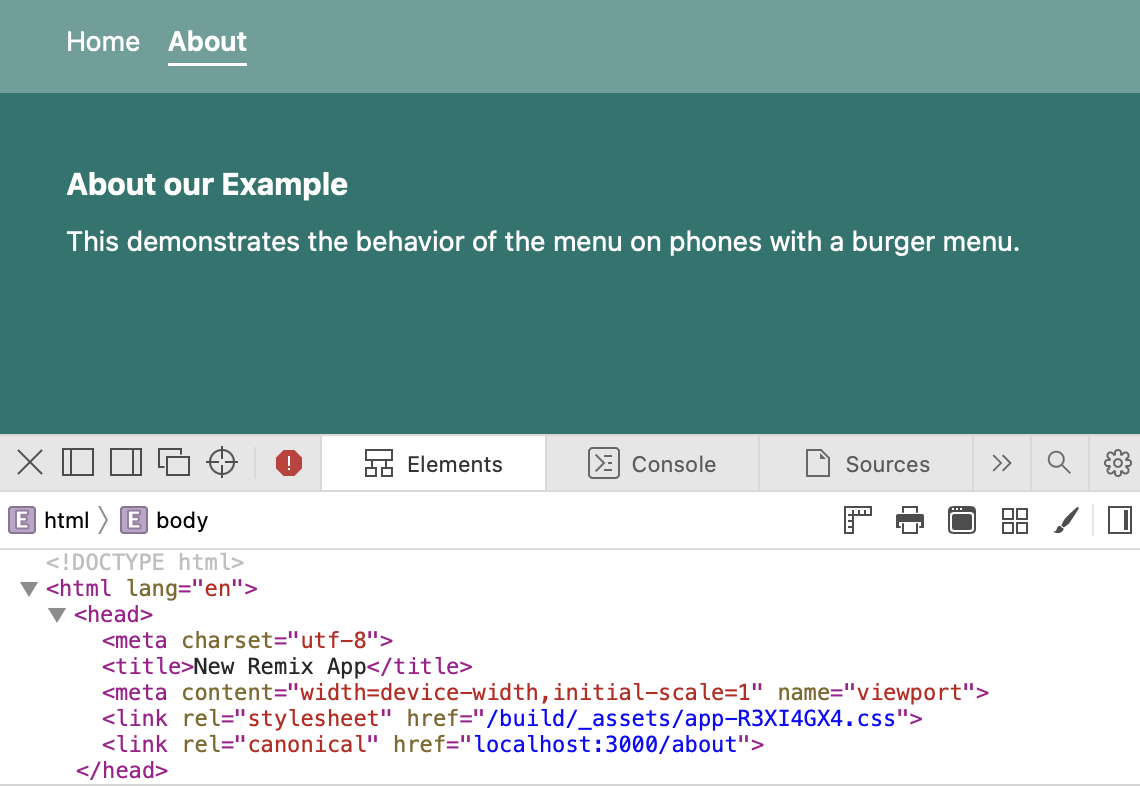
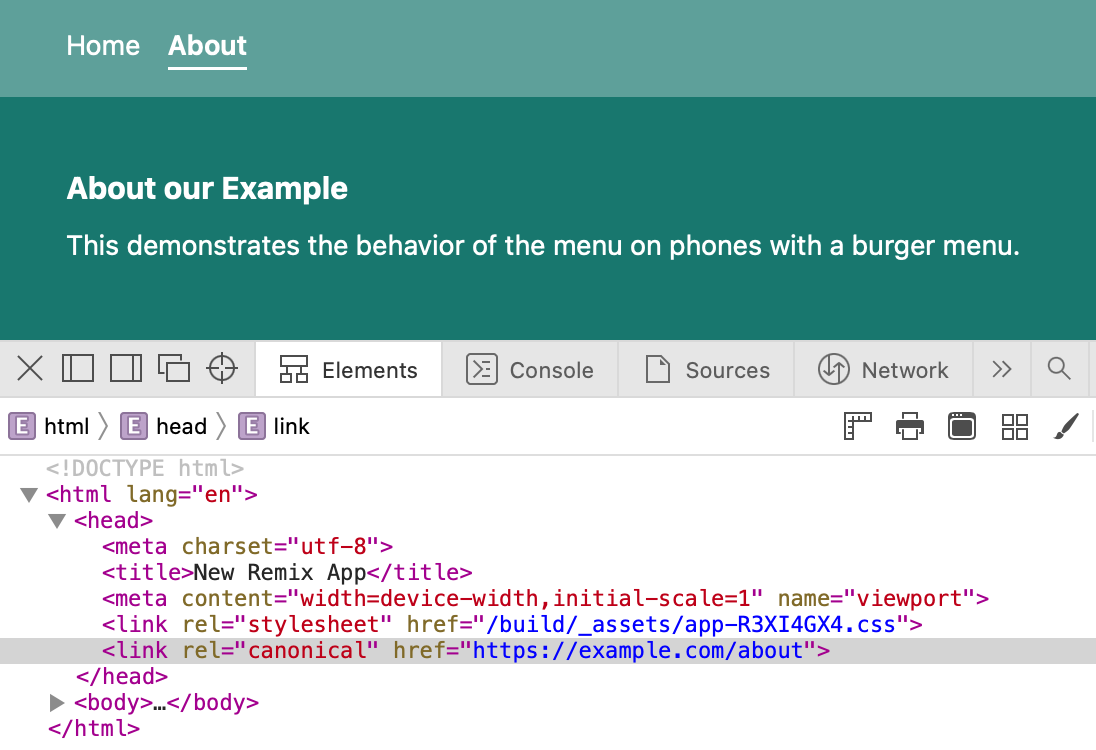
Small fixes to article

diff --git a/app/routes/components.jsx b/app/routes/components.jsx
@@ -44,6 +44,6 @@ export function Header () {
 }
 
 // Replace the host with your "official" host
-const host = "localhost:3000"
+const host = "https://example.com"
 export const canonicalLink = ({pathname}) =>
   [{rel: 'canonical', href: `${host}${pathname}`}]

diff --git a/assets/article-canonical.md b/assets/article-canonical.md
@@ -1,16 +1,19 @@
-# Remix (React) with canonical URLs
+# Adding Canonical URLs to a Remix (React) website
 
-Remix, a react framework, comes packaged only with the essential basics.
-To add canonical URLs to your pages, which are important for search engine optimization (SEO),
-only a few lines need to be added as shown below thanks to matchers.
+[Remix](https://remix.run) is a [React](https://reactjs.org) framework to create websites
+and single page applications (SPA).
+By default, it creates however only the essentials,
+and lacks Canonical URLs, which are important for search engine optimization (SEO).
+Luckily, they can be added with only a few lines as shown below.
 
 ## Why are canonical URLs important?
 
-An important aspect for basic search engine optimization (SEO) is the 
-[canonical URL](https://ahrefs.com/seo/glossary/canonical-url) of each page.
-Search engines typical only index the canonical URLs of a website.
-If the search engines realize that you are publishing the same content at different
-pages with differen canonical URLs, they might penalize you for this and lower your ranking.
+An important aspect for basic (SEO) is to have a
+[canonical URL](https://ahrefs.com/seo/glossary/canonical-url) on each page.
+[Search engines typical only index the canonical URLs of a
+website](https://developers.google.com/search/docs/crawling-indexing/consolidate-duplicate-urls).
+If a search engine realizes that you are publishing the same content at different
+pages with differen canonical URLs, it might penalize you for this and lower your ranking.
 So, if you want your site to be found through a search engine, make sure that your canonical URLs are correct.
 
 To add a canonical URL, use a canonical tag with the correct link and add it to the header of your site
@@ -28,7 +31,7 @@ If the pages of your website would be accessible through only one URL,
 most search engine would be clever enough and 
 would not require a dedicated canonical URL.
 
-However, it can happen promptly that you end up with several URLs for the same page:
+However, it can happen quickly that you end up with several URLs for the same page:
  - Your website is reachable under the plain hostname as well as under the `www` subdomain like
    `example.com` and `www.example.com`
  - Your website is reachable through `http` as well as `https`: `http://example.com` and `https://example.com`
@@ -41,7 +44,7 @@ However, it can happen promptly that you end up with several URLs for the same p
 
 Remix uses a lot of conventions to do the plumbing of your site.
 One easy but repetitive way of creating the canconical URLs, is to simply add 
-the it straight to your final route files.
+it straight to your final route files.
 
 Assuming, we want to add a canonical URL to `example.com/my-page`, add the following
 to `app/routes/my-page.jsx`:
@@ -89,6 +92,7 @@ the canonical URL to the HTML body.
 ```
 function CanonicalLinks() {
   const matches = useMatches()
+  // The match m contains the pathname to construct the canonical URL
   return matches
     .filter(m => m?.handle?.canonicalLink)
     .flatMap(m => 
@@ -121,6 +125,9 @@ PICTURE FOR ABOUT
 
 So, with a handful of changes, we can create canconical URLs needed for SEO
 in any Remix appliation that we have.
-To create a sitemap or robots.txt, 
+You can use the same mechanism to also generate
+[Open Graph tags](https://ahrefs.com/blog/open-graph-meta-tags/)
+important for sharing content.
+To create a sitemap or robots.txt,
 there are [packages available](https://github.com/balavishnuvj/remix-seo).
 
